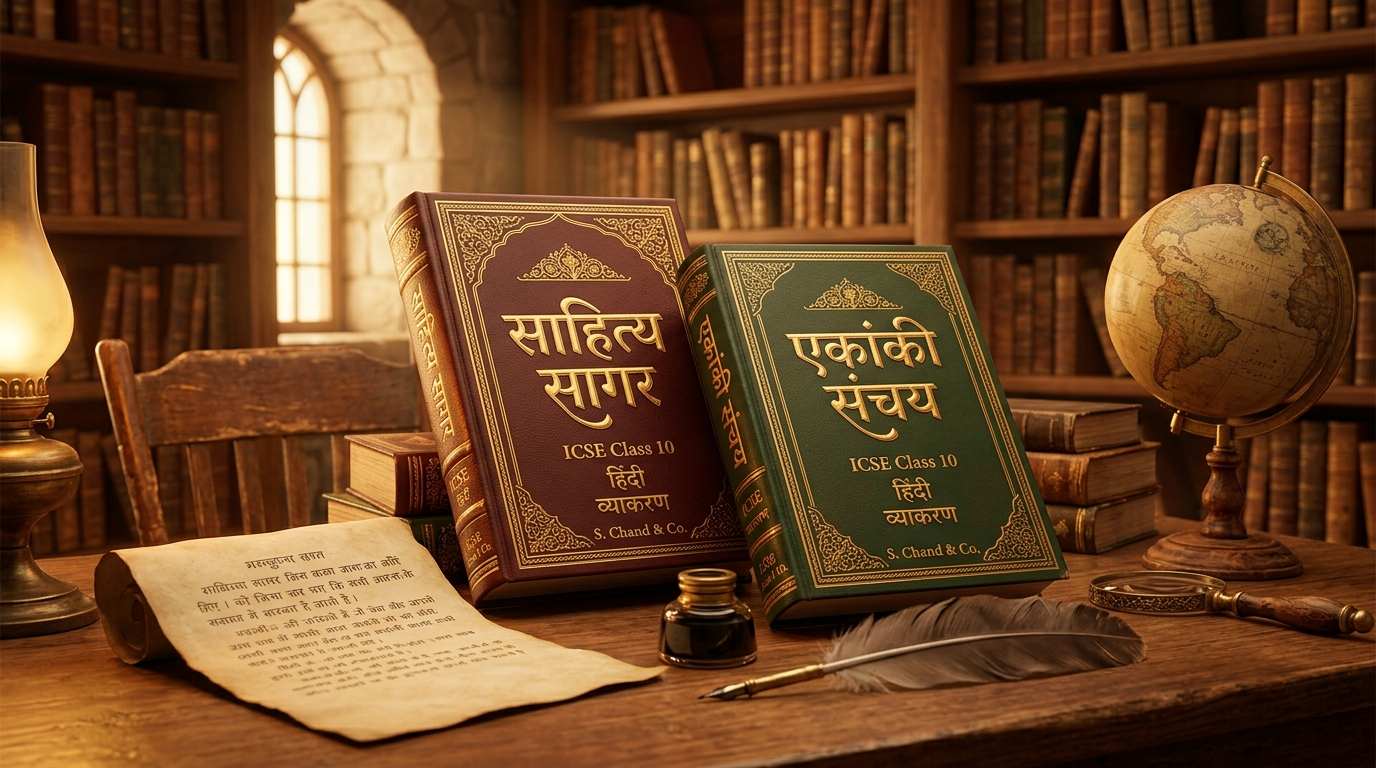
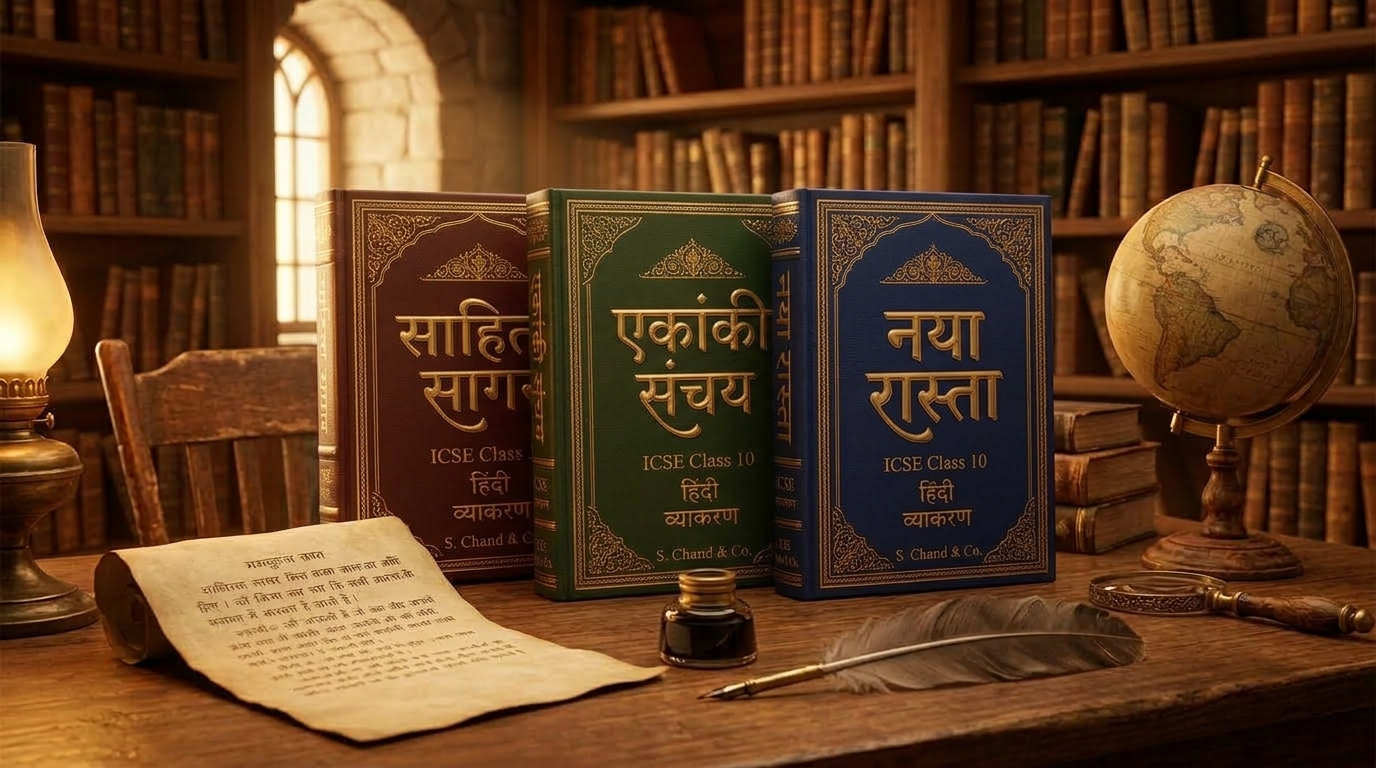
feat: add Naya Rasta 3D artwork to ICSE card, add Naya Rasta badge, and remove Grammar Hub button

diff --git a/public/index.html b/public/index.html
@@ -441,7 +441,7 @@
       <div style="background:#FFFFFF; border:1px solid #E2E8F0; border-radius:18px; padding:1.5rem; box-shadow:0 4px 20px rgba(0,0,0,0.03); display:flex; flex-direction:column; justify-content:space-between; transition:transform 0.2s, box-shadow 0.2s;">
         <div>
           <a href="/icse/class-10/hindi/" style="display:block; overflow:hidden; border-radius:12px; margin-bottom:1.15rem;">
-            <img src="/images/icse_study_material.jpg" alt="ICSE Class 10 Hindi Study Material" style="width:100%; height:200px; object-fit:cover; border-radius:12px; transition:transform 0.3s;" loading="lazy" onmouseover="this.style.transform='scale(1.02)'" onmouseout="this.style.transform='scale(1)'" />
+            <img src="/images/icse_study_material.jpg?v=2" alt="ICSE Class 10 Hindi Study Material - Sahitya Sagar, Ekanki Sanchay, Naya Rasta" style="width:100%; height:200px; object-fit:cover; border-radius:12px; transition:transform 0.3s;" loading="lazy" onmouseover="this.style.transform='scale(1.02)'" onmouseout="this.style.transform='scale(1)'" />
           </a>
           <div style="display:flex; justify-content:space-between; align-items:center; margin-bottom:0.75rem; gap:0.5rem; flex-wrap:wrap;">
             <span style="font-size:0.75rem; font-weight:700; text-transform:uppercase; color:#16A34A; background:#F0FDF4; padding:3px 10px; border-radius:50px; border:1px solid #BBF7D0;">ICSE Board &bull; Literature</span>
@@ -449,19 +449,17 @@
           </div>
           <h3 style="font-size:1.35rem; font-weight:800; color:#0F172A; margin:0 0 0.55rem; font-family:'Plus Jakarta Sans','Inter','Noto Sans Devanagari',sans-serif;">ICSE Class 10 Hindi</h3>
           <p style="color:#64748B; font-size:0.94rem; line-height:1.65; margin-bottom:1.25rem;">
-            In-depth study notes for <strong>साहित्य सागर (गद्य खंड)</strong> and <strong>एकांकी संचय</strong> with character sketches (चरित्र-चित्रण), Reference to Context (RTC) extract mastery, and question-answers.
+            In-depth study notes for <strong>साहित्य सागर (गद्य खंड)</strong>, <strong>एकांकी संचय</strong>, and <strong>नया रास्ता</strong> with character sketches (चरित्र-चित्रण), Reference to Context (RTC) extract mastery, and question-answers.
           </p>
           <div style="display:flex; gap:0.5rem; flex-wrap:wrap; margin-bottom:1.25rem;">
             <span style="font-size:0.76rem; background:#F8FAFC; border:1px solid #E2E8F0; padding:3px 8px; border-radius:6px; color:#475569; font-weight:600;">📖 Sahitya Sagar</span>
             <span style="font-size:0.76rem; background:#F8FAFC; border:1px solid #E2E8F0; padding:3px 8px; border-radius:6px; color:#475569; font-weight:600;">🎭 Ekanki Sanchay</span>
+            <span style="font-size:0.76rem; background:#F8FAFC; border:1px solid #E2E8F0; padding:3px 8px; border-radius:6px; color:#475569; font-weight:600;">📚 Naya Rasta</span>
             <span style="font-size:0.76rem; background:#F8FAFC; border:1px solid #E2E8F0; padding:3px 8px; border-radius:6px; color:#475569; font-weight:600;">✍ RTC Extracts &amp; Q&amp;A</span>
           </div>
         </div>
-        <div style="display:flex; justify-content:space-between; align-items:center; border-top:1px solid #F1F5F9; padding-top:1.15rem; margin-top:0.5rem; gap:0.75rem; flex-wrap:wrap;">
-          <a href="/hindi-grammar/" class="btn btn-ghost" style="font-size:0.85rem; padding:0.5rem 0.85rem; font-weight:600; color:#475569; display:inline-flex; align-items:center; gap:4px; text-decoration:none;">
-            <span>📙 Grammar Hub</span>
-          </a>
-          <a href="/icse/class-10/hindi/" class="btn btn-primary" style="padding:0.6rem 1.35rem; font-size:0.92rem; border-radius:10px; font-weight:700; text-decoration:none; display:inline-flex; align-items:center; gap:6px;">
+        <div style="display:flex; justify-content:flex-end; align-items:center; border-top:1px solid #F1F5F9; padding-top:1.15rem; margin-top:0.5rem; gap:0.75rem;">
+          <a href="/icse/class-10/hindi/" class="btn btn-primary" style="width:100%; justify-content:center; padding:0.65rem 1.35rem; font-size:0.92rem; border-radius:10px; font-weight:700; text-decoration:none; display:inline-flex; align-items:center; gap:6px;">
             <span>Explore ICSE Material</span> &rarr;
           </a>
         </div>
